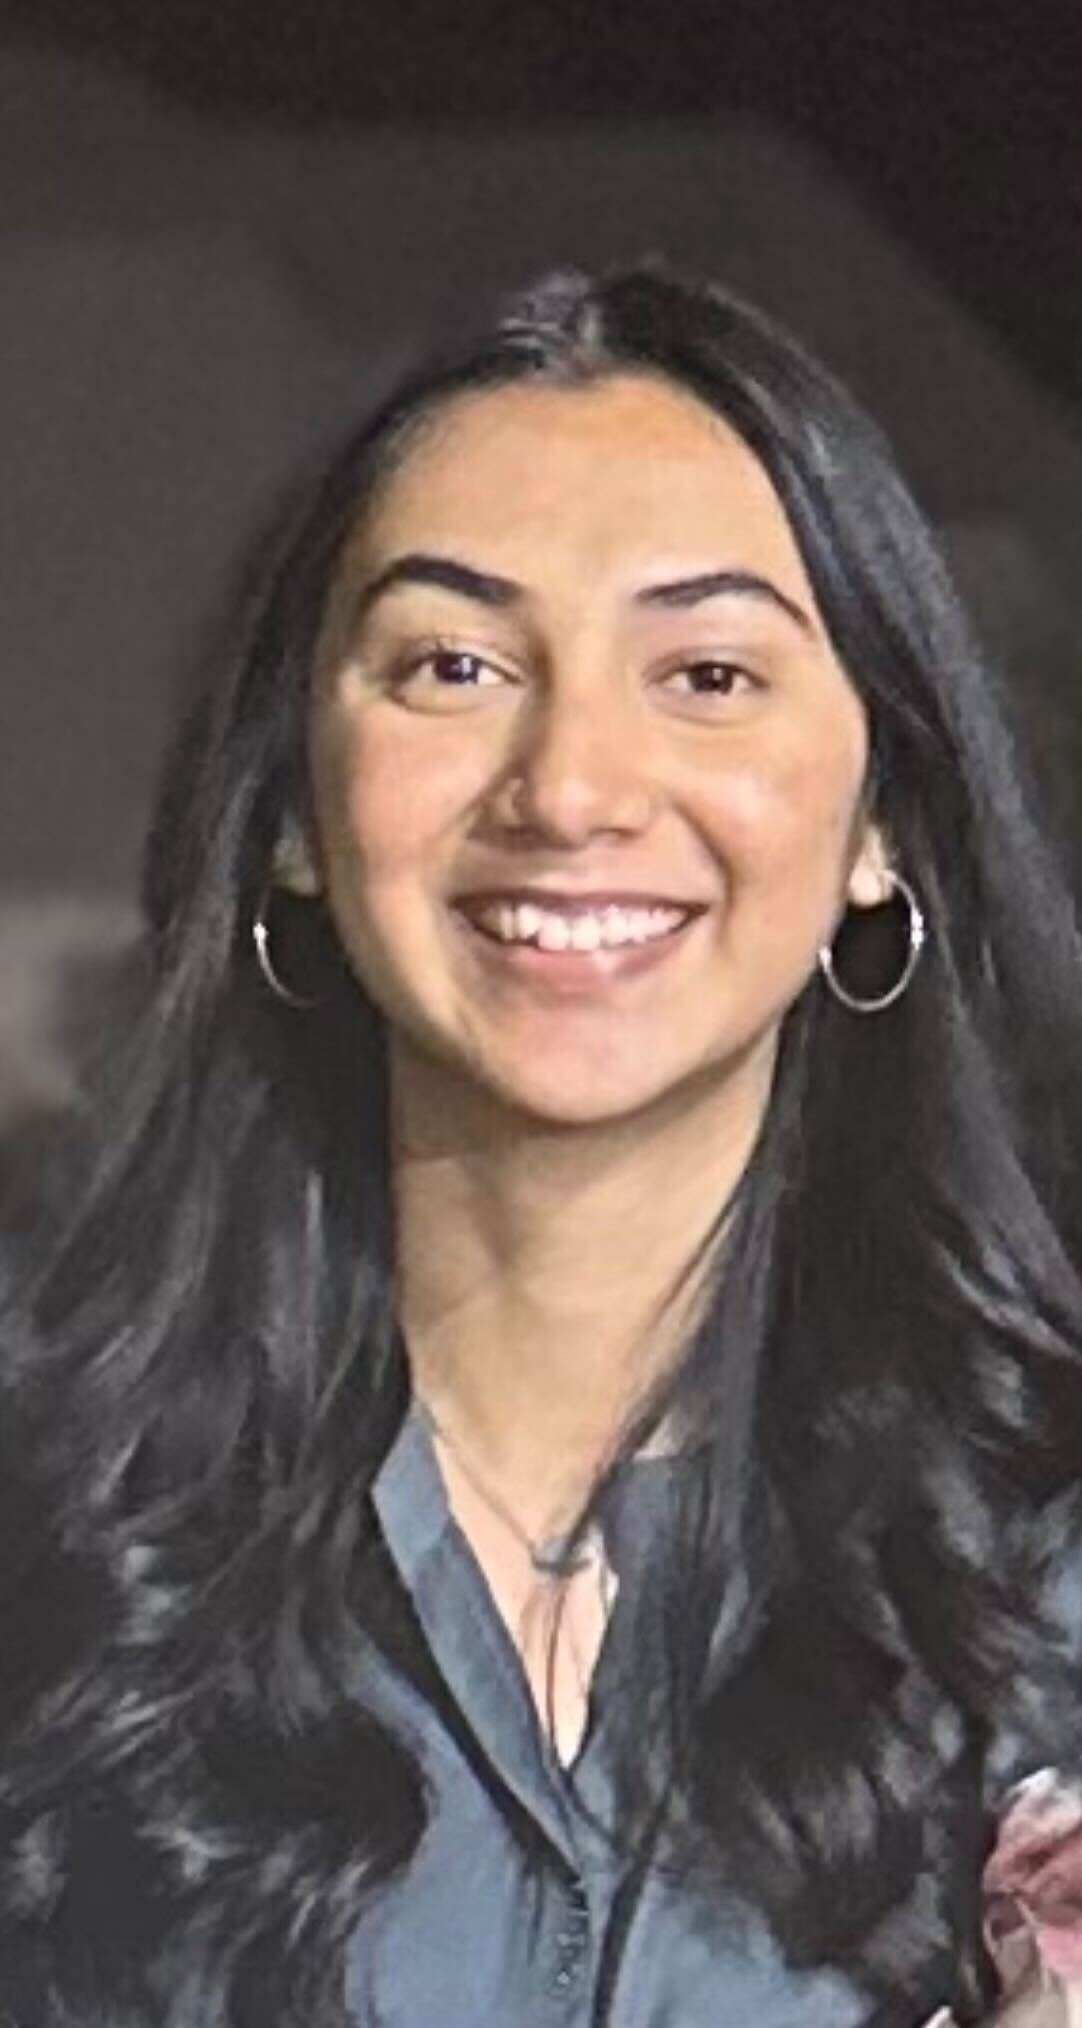
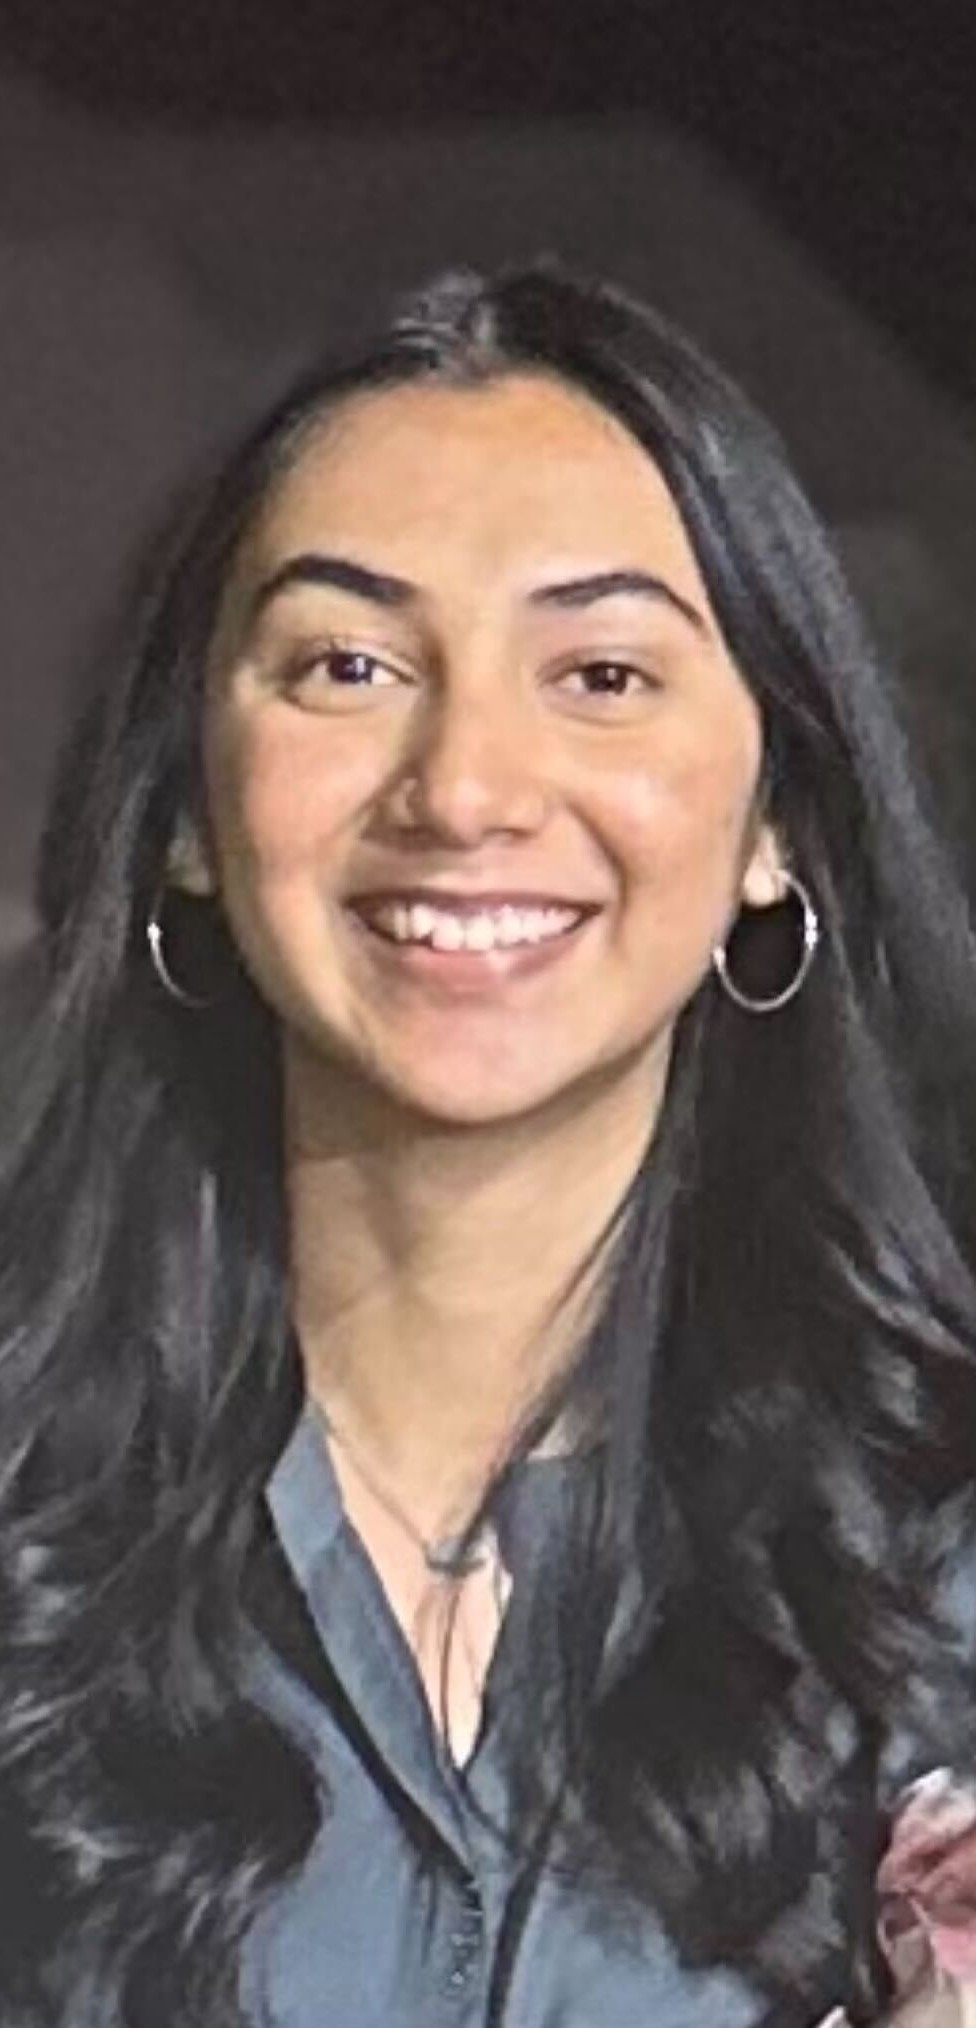
Fixed every photo, except Prahaladh's

diff --git a/team.html b/team.html
@@ -60,7 +60,8 @@
 He leads multiple hands-on innovation efforts, including hydrogel product development and solar engineering projects, where he directs design, testing, and prototype validation. He is known for combining technical depth with structured project execution, managing small research and engineering teams to move ideas from early experimentation to functional models.
 
 Prahaladh is deeply committed to sustainability, clean energy, and technical leadership. Through his research and organizational work, he focuses on scalable, impact-driven technologies and programs that expand access to sustainable engineering and responsible innovation."
-                            data-member-image="Assets/TeamPics/Prahaladh.jpg">
+                            data-member-image="Assets/TeamPics/Prahaladh.jpg" data-crop-x="50%" data-crop-y="50%"
+                            style="--crop-x: 50%; --crop-y: 50%;">
                             <img src="Assets/TeamPics/Prahaladh.jpg" alt="Prahaladh Gopalakrishnan">
                         </div>
                         <div class="team-info">
@@ -73,9 +74,9 @@ Prahaladh is deeply committed to sustainability, clean energy, and technical lea
                         <div class="team-photo clickable-photo" data-member-name="Shriya Deoli"
                             data-member-role="VP of the Board, Administration Assistant, Business Team Advisor"
                             data-member-bio="Shriya Deoli is the VP of the board, business advisor, and administrative assistant at Ethos sustainability, where she helps develop workshops and other projects to educate students in sustainability and business."
-                            data-member-image="Assets/TeamPics/Shriya.jpg">
-                            <img src="Assets/TeamPics/Shriya.jpg" alt="Shriya Deoli"
-                                style="object-position: center 35%; rotate: 25deg;">
+                            data-member-image="Assets/TeamPics/Shriya.jpg" data-crop-x="center" data-crop-y="35%"
+                            style="--crop-x: center; --crop-y: 35%;">
+                            <img src="Assets/TeamPics/Shriya.jpg" alt="Shriya Deoli" style="rotate: 25deg;">
                         </div>
                         <div class="team-info">
                             <h3>Shriya Deoli</h3>
@@ -100,7 +101,8 @@ Email: mico@ethossustainability.org" data-member-image="Assets/TeamPics/Mico.jpg
                         <div class="team-photo clickable-photo" data-member-name="Juhi Lohiya"
                             data-member-role="Operations Director"
                             data-member-bio="Juhi manages internal operations at ethos sustainability and is someone who passionately wants to make a positive impact on the environment as well as people!"
-                            data-member-image="Assets/TeamPics/Juhi.jpg">
+                            data-member-image="Assets/TeamPics/Juhi.jpg" data-crop-x="50%" data-crop-y="50%"
+                            style="--crop-x: 60%; --crop-y: 20%;">
                             <img src="Assets/TeamPics/Juhi.jpg" alt="Juhi Lohiya">
                         </div>
                         <div class="team-info">

diff --git a/script.js b/script.js
@@ -188,12 +188,18 @@ if (teamModal) {
             const role = photo.dataset.memberRole;
             const bio = photo.dataset.memberBio;
             const image = photo.dataset.memberImage;
+            const cropX = photo.dataset.cropX || 'center';
+            const cropY = photo.dataset.cropY || 'center';
 
             document.getElementById('modalName').textContent = name;
             document.getElementById('modalRole').textContent = role;
             document.getElementById('modalBio').textContent = bio;
             const modalImg = document.getElementById('modalPhoto');
-            if (modalImg) modalImg.src = image;
+            if (modalImg) {
+                modalImg.src = image;
+                modalImg.style.setProperty('--crop-x', cropX);
+                modalImg.style.setProperty('--crop-y', cropY);
+            }
 
             teamModal.classList.add('active');
             document.body.style.overflow = 'hidden';

diff --git a/styles.css b/styles.css
@@ -747,6 +747,7 @@ section.contact {
     width: 100%;
     height: 100%;
     object-fit: cover;
+    object-position: var(--crop-x, center) var(--crop-y, center);
     transition: transform 0.5s ease;
 }
 
@@ -868,6 +869,7 @@ section.contact {
     width: 100%;
     height: 100%;
     object-fit: cover;
+    object-position: var(--crop-x, center) var(--crop-y, center);
 }
 
 .modal-info {
